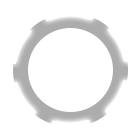
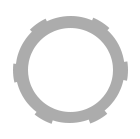
Changed glow effect and meter ticks

diff --git a/Assets/Scripts/Lodis/Gameplay/EnergyBarBehaviour.cs b/Assets/Scripts/Lodis/Gameplay/EnergyBarBehaviour.cs
@@ -32,6 +32,8 @@ public class EnergyBarBehaviour : MonoBehaviour
     [SerializeField]
     private float _meterTickHeight;
     [SerializeField]
+    private Vector2 _meterTickOffset;
+    [SerializeField]
     private BurstMeterBehaviour _burstMeter;
 
     public MovesetBehaviour Target { get => _target; set => _target = value; }
@@ -78,7 +80,7 @@ public class EnergyBarBehaviour : MonoBehaviour
 
             //Change the meter ticks position to the current x position
             meterTick.rect.Set(meterTick.rect.x, meterTick.rect.y, _meterTickWidth, _meterTickHeight);
-            meterTick.anchoredPosition = new Vector2(currentXPos, meterTick.anchoredPosition.y);
+            meterTick.anchoredPosition = new Vector2(currentXPos, meterTick.anchoredPosition.y) + _meterTickOffset;
             //Move the x position to the position of the next tick
             currentXPos += xOffset;
         }
